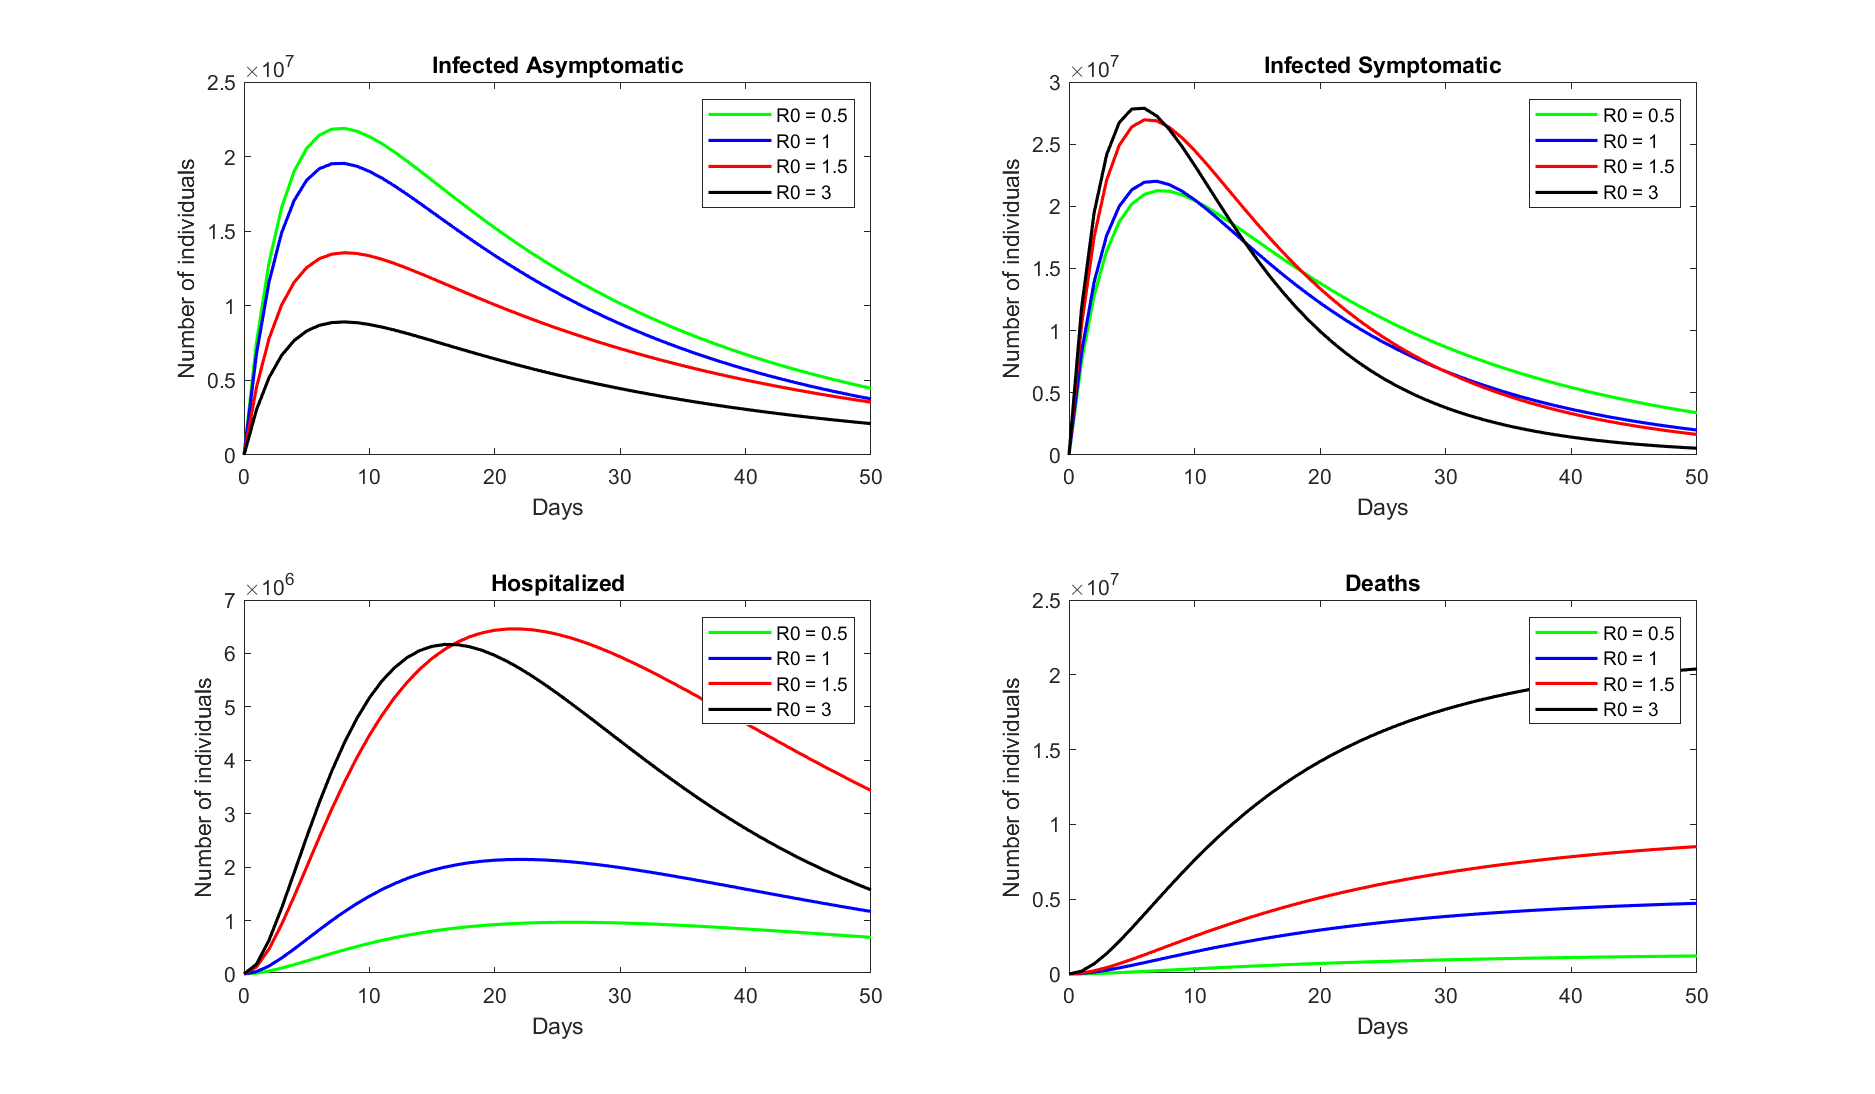
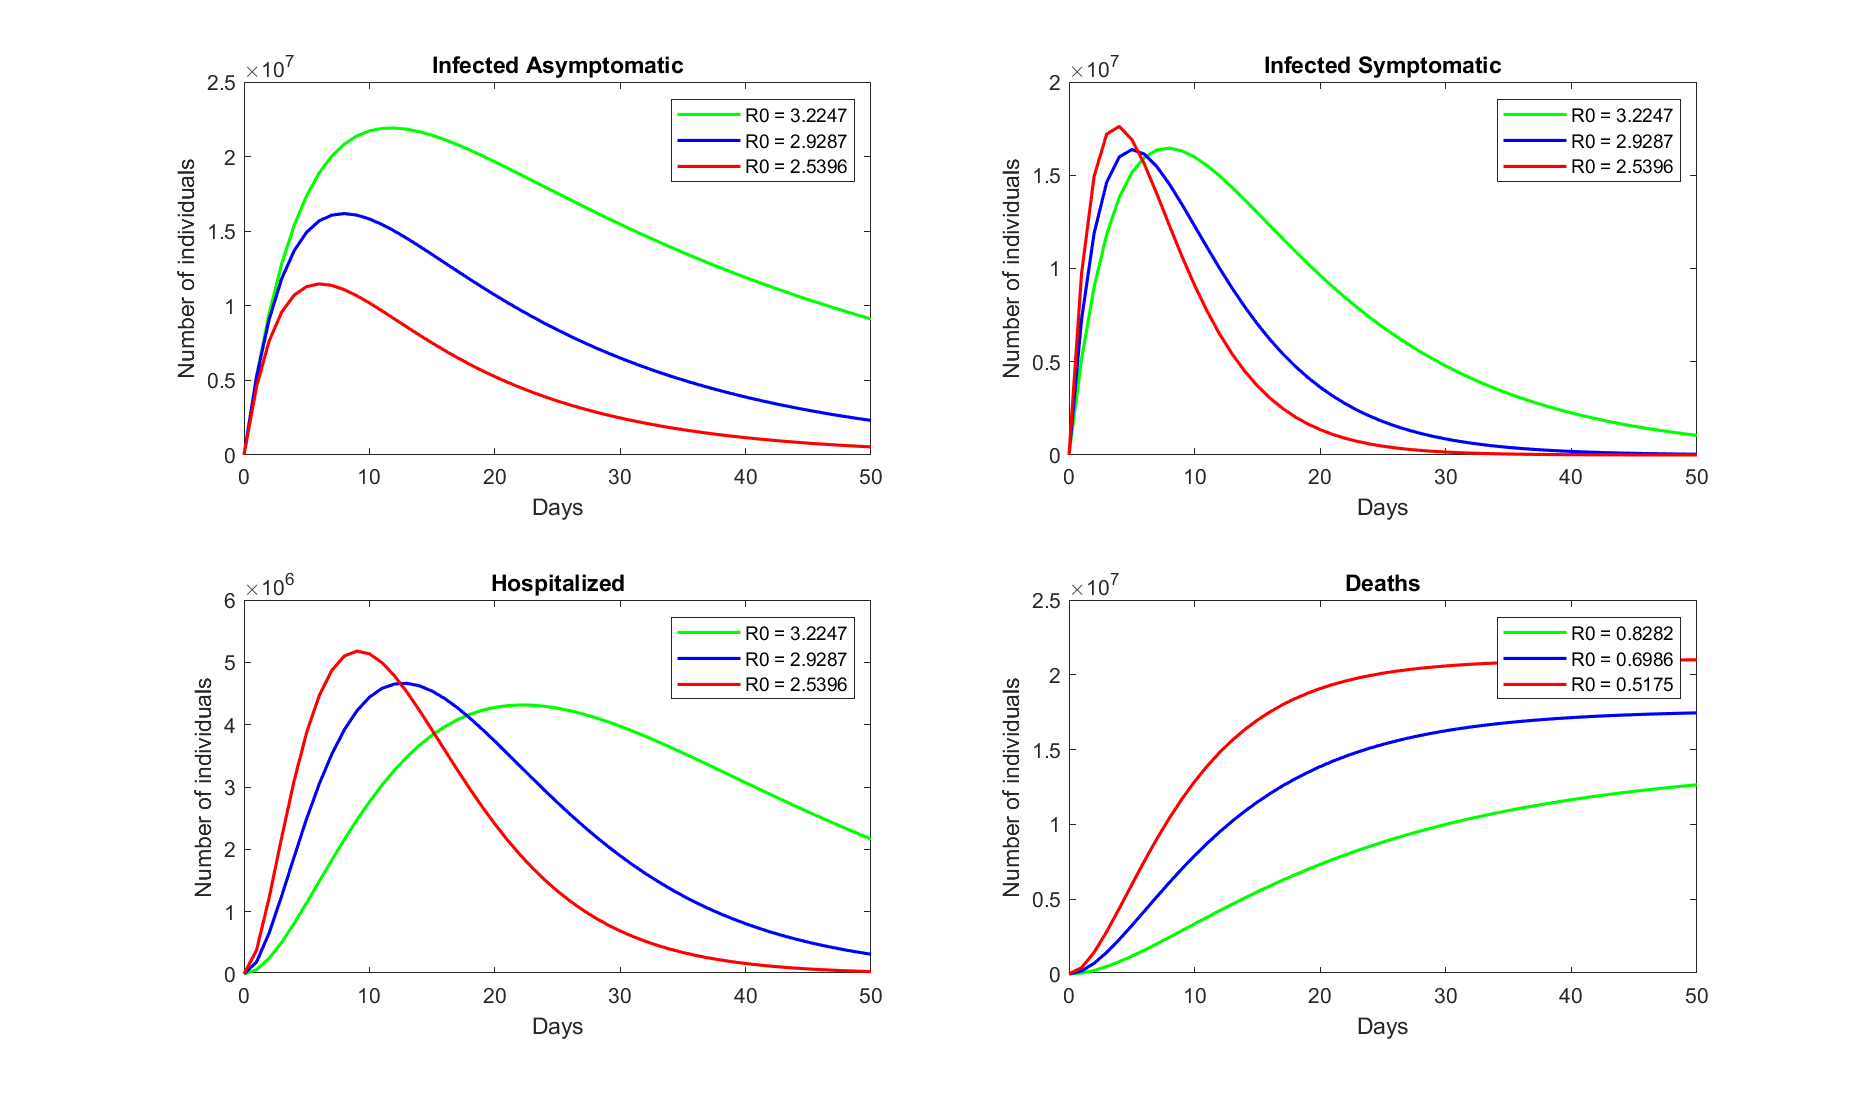
Update SEIIRHD simulation

diff --git a/experiments/simulations/ITA.m b/experiments/simulations/ITA.m
@@ -24,92 +24,113 @@ H = cast(data.totale_ospedalizzati, 'double');
 D = cast(data.deceduti, 'double');
 
 t0 = 1;
-E0 = E(t0);
-I0 = I(t0);
-H0 = H(t0);
-R0 = R(t0);
-D0 = D(t0);
+E0 = 0;
+I0 = 1;
+H0 = 0;
+R0 = 0;
+D0 = 0;
 S0 = N-E0-I0-R0;
 
 timeV = 0:1:50;
-%% R0 = 0.5
-f1 = 0.5;
+%%
+
+lb = [0.4, 0.15, 0, 0, 0, 0, 0];
+ub = [0.8, 0.35, 0.1, 0.5, 0.5, 0.1, 0.1];
+
+
+f = unifrnd(lb(1),ub(1),1,1000);
+alpha = unifrnd(lb(2),ub(2),1,1000);
+gamma = unifrnd(lb(3),ub(3),1,1000);
+beta_a = unifrnd(lb(4),ub(4),1,1000);
+beta_s = unifrnd(lb(5),ub(5),1,1000);
+nu_s = unifrnd(lb(6),ub(6),1,1000);
+mu = unifrnd(lb(7),ub(7),1,1000);
+
+% compute quartiles
+fq = quantile(f,[0.25, 0.5, 0.75]);
+alphaq = quantile(alpha,[0.25, 0.5, 0.75]);
+gammaq = quantile(gamma,[0.25, 0.5, 0.75]);
+beta_aq = quantile(beta_a,[0.25, 0.5, 0.75]);
+beta_sq = quantile(beta_s,[0.25, 0.5, 0.75]);
+nu_sq = quantile(nu_s,[0.25, 0.5, 0.75]);
+muq = quantile(mu,[0.25, 0.5, 0.75]);
+%% quartile 25%
+i = 1;
+
+f1=fq(i);
 I_a1 = (1-f1)*I;
 I_s1 = f1*I;
 I_a10 = I_a1(t0);
 I_s10 = I_s1(t0);
 X01= [S0 E0 I_a10 I_s10 H0 R0 D0];
 
-alpha1 = 0.3;
-gamma1 = 0.041;
-beta_a1 = 0.021;
-beta_s1 = 0.023;
-nu_s1 = 0.004;
-mu1 = 0.002;
+alpha1 = alphaq(i);
+gamma1 = gammaq(i);
+beta_a1 = beta_aq(i);
+beta_s1 = beta_sq(i);
+nu_s1 = nu_sq(i);
+mu1 = muq(i);
 
 
 R01 = (f1*beta_s1)/(gamma1+mu1+nu_s1) + (1-f1)*beta_a1/gamma1;
-fprintf("R0 first simulation: %f \n", R01); 
+fprintf("R0 quartile 0.25: %f \n", R01); 
 p1 = [f1, alpha1, gamma1, beta_a1, beta_s1, nu_s1, mu1];
 [t_res,x_res1] = ode23s(@(t,x) SEIIRHD(t,x, p1), timeV, X01);  
-%% R0 = 1
-f2 = 0.55;
+%% quartile 50%
+i = 2;
+
+f2=fq(i);
 I_a2 = (1-f2)*I;
 I_s2 = f2*I;
 I_a20 = I_a2(t0);
 I_s20 = I_s2(t0);
 X02= [S0 E0 I_a20 I_s20 H0 R0 D0];
 
-alpha2 = 0.3;
-gamma2 = 0.0425;
-beta_a2 = 0.05;
-beta_s2 = 0.052;
-nu_s2 = 0.01;
-mu2 = 0.008;
+alpha2 = alphaq(i);
+gamma2 = gammaq(i);
+beta_a2 = beta_aq(i);
+beta_s2 = beta_sq(i);
+nu_s2 = nu_sq(i);
+mu2 = muq(i);
 
 R02 = (f2*beta_s2)/(gamma2+mu2+nu_s2) + (1-f2)*beta_a2/gamma2;
-fprintf("R0 second simulation: %f \n", R02); 
+fprintf("R0 quartile 0.5: %f \n", R02); 
 p2 = [f2, alpha2, gamma2, beta_a2, beta_s2, nu_s2, mu2];
 [t_res,x_res2] = ode23s(@(t,x) SEIIRHD(t,x, p2), timeV, X02);  
-%% R0 = 1.5
-f3 = 0.7;
+%% quartile 75%
+i=3;
+
+f3=fq(i);
 I_a3 = (1-f3)*I;
 I_s3 = f3*I;
 I_a30 = I_a3(t0);
 I_s30 = I_s3(t0);
 X03 = [S0 E0 I_a30 I_s30 H0 R0 D0];
 
-alpha3 = 0.3;
-gamma3 = 0.035;
-beta_a3 = 0.081;
-beta_s3 = 0.081;
-nu_s3 = 0.0245;
-mu3 = 0.0105;
+alpha3 = alphaq(i);
+gamma3 = gammaq(i);
+beta_a3 = beta_aq(i);
+beta_s3 = beta_sq(i);
+nu_s3 = nu_sq(i);
+mu3 = muq(i);
+
 
 R03 = (f3*beta_s3)/(gamma3+mu3+nu_s3) + (1-f3)*beta_a3/gamma3;
-fprintf("R0 third simulation: %f \n", R03); 
+fprintf("R0 quartile 0.75: %f \n", R03); 
 p3 = [f3, alpha3, gamma3, beta_a3, beta_s3, nu_s3, mu3];
 [t_res,x_res3] = ode23s(@(t,x) SEIIRHD(t,x, p3), timeV, X03); 
 
-%% R0 = 3
-f4 = 0.8;
-I_a4 = (1-f4)*I;
-I_s4 = f4*I;
-I_a40 = I_a4(t0);
-I_s40 = I_s4(t0);
-X04 = [S0 E0 I_a40 I_s40 H0 R0 D0];
 
-alpha4 = 0.3;
-gamma4 = 0.0375;
-beta_a4 = 0.24;
-beta_s4 = 0.21;
-nu_s4 = 0.03;
-mu4 = 0.03;
-
-R04 = (f4*beta_s4)/(gamma4+mu4+nu_s4) + (1-f4)*beta_a4/gamma4;
-fprintf("R0 forth simulation: %f \n", R04); 
-p4 = [f4, alpha4, gamma4, beta_a4, beta_s4, nu_s4, mu4];
-[t_res,x_res4] = ode23s(@(t,x) SEIIRHD(t,x, p4), timeV, X04); 
-%%
-simulate_SEIIRHD(timeV, x_res1, x_res2, x_res3, x_res4,...
+%% plot
+simulate_SEIIRHD(timeV, x_res1, x_res2, x_res3,...
     "./results/simulations/ITA/SEIIRHD.png")
+
+%% sensitivity analysis
+den = gamma1 + mu1 + nu_s1;
+
+c_f = (beta_s1/den - beta_a1/gamma1)*(f1/R01);
+c_betaa = ((1-f1)/gamma1)*beta_a1/R01;
+c_betas = (f1/den)*beta_s1/R01;
+c_gamma = (-((f1*beta_s1)/den)^2-(((1-f1)*beta_a1)/gamma1)^2)*gamma1/R01;
+c_nus = (-((f1*beta_s1)/den)^2)*nu_s1/R01;
+c_mu = (-((f1*beta_s1)/den)^2)*mu1/R01;

diff --git a/models/SEIIRHD/simulate_SEIIRHD.m b/models/SEIIRHD/simulate_SEIIRHD.m
@@ -1,11 +1,10 @@
-function simulate_SEIIRHD(timeV, X1, X2, X3, X4, path)
+function simulate_SEIIRHD(timeV, X1, X2, X3, path)
 
 % Input 
 % timeV   time vector used as x-axis
-% X1      vector containg the ODE solution with R0 = 0.5
-% X2      vector containg the ODE solution with R0 = 1
-% X3      vector containg the ODE solution with R0 = 1.5
-% X4      vector containg the ODE solution with R0 = 3
+% X1      vector containg the ODE solution with 0.25 quartiles
+% X2      vector containg the ODE solution with 0.5 quartiles
+% X3      vector containg the ODE solution with 0.75 quartiles
 % path    path for saving the plot obtained
 
 % Output
@@ -26,31 +25,22 @@ I_s3 = X3(:, 4);
 H3 = X3(:, 5);
 D3 = X3(:, 7);
 
-I_a4 = X4(:, 3);
-I_s4 = X4(:, 4);
-H4 = X4(:, 5);
-D4 = X4(:, 7);
 
-fprintf("R0 = 0.5: "); 
+fprintf("0.25 Quartiles: "); 
 fprintf("Max I_a: %f, ", max(I_a1)); 
 fprintf("Max I_s: %f\n", max(I_s1)); 
 fprintf("Max H: %f, ", max(H1)); 
 fprintf("Max D: %f\n", max(D1)); 
-fprintf("R0 = 1: "); 
+fprintf("0.5 Quartiles: "); 
 fprintf("Max I_a: %f, ", max(I_a2)); 
 fprintf("Max I_s: %f\n", max(I_s2)); 
 fprintf("Max H: %f, ", max(H2)); 
 fprintf("Max D: %f\n", max(D2)); 
-fprintf("R0 = 1.5: "); 
+fprintf("0.75 Quartiles: "); 
 fprintf("Max I_a: %f, ", max(I_a3)); 
 fprintf("Max I_s: %f\n", max(I_s3)); 
 fprintf("Max H: %f, ", max(H3)); 
 fprintf("Max D: %f\n", max(D3)); 
-fprintf("R0 = 3"); 
-fprintf("Max I_a: %f, ", max(I_a4)); 
-fprintf("Max I_s: %f\n", max(I_s4)); 
-fprintf("Max H: %f, ", max(H4)); 
-fprintf("Max D: %f\n", max(D4)); 
 
 x0=100;
 y0=100;
@@ -63,10 +53,9 @@ subplot(2,2,1);
 plot(timeV,I_a1,'g-', 'Linewidth', 1.5);hold on
 plot(timeV,I_a2,'b-', 'Linewidth', 1.5);hold on
 plot(timeV,I_a3,'r-', 'Linewidth', 1.5);hold on
-plot(timeV,I_a4,'k-', 'Linewidth', 1.5);hold on
 xlabel('Days');ylabel('Number of individuals');
-legend('R0 = 0.5', 'R0 = 1' ,...
-    'R0 = 1.5', 'R0 = 3' ,...
+legend('R0 = 3.2247', 'R0 = 2.9287' ,...
+    'R0 = 2.5396', ...
     'Location', 'northeast');
 %set(gca,'XLim',[timeV(1), dates(tf+tp)]);
 title(sprintf('Infected Asymptomatic'));
@@ -76,10 +65,9 @@ subplot(2,2,2);
 plot(timeV,I_s1,'g-', 'Linewidth', 1.5);hold on
 plot(timeV,I_s2,'b-', 'Linewidth', 1.5);hold on
 plot(timeV,I_s3,'r-', 'Linewidth', 1.5);hold on
-plot(timeV,I_s4,'k-', 'Linewidth', 1.5);hold on
 xlabel('Days');ylabel('Number of individuals');
-legend('R0 = 0.5', 'R0 = 1' ,...
-    'R0 = 1.5', 'R0 = 3' ,...
+legend('R0 = 3.2247', 'R0 = 2.9287' ,...
+    'R0 = 2.5396', ...
     'Location', 'northeast');
 %set(gca,'XLim',[timeV(1), dates(tf+tp)]);
 title(sprintf('Infected Symptomatic'));
@@ -89,10 +77,9 @@ subplot(2,2,3);
 plot(timeV,H1,'g-', 'Linewidth', 1.5);hold on
 plot(timeV,H2,'b-', 'Linewidth', 1.5);hold on
 plot(timeV,H3,'r-', 'Linewidth', 1.5);hold on
-plot(timeV,H4,'k-', 'Linewidth', 1.5);hold on
 xlabel('Days');ylabel('Number of individuals');
-legend('R0 = 0.5', 'R0 = 1' ,...
-    'R0 = 1.5', 'R0 = 3' ,...
+legend('R0 = 3.2247', 'R0 = 2.9287' ,...
+    'R0 = 2.5396',...
     'Location', 'northeast');
 %set(gca,'XLim',[timeV(1), dates(tf+tp)]);
 title(sprintf('Hospitalized'));
@@ -102,14 +89,12 @@ subplot(2,2,4);
 plot(timeV,D1,'g-', 'Linewidth', 1.5);hold on
 plot(timeV,D2,'b-', 'Linewidth', 1.5);hold on
 plot(timeV,D3,'r-', 'Linewidth', 1.5);hold on
-plot(timeV,D4,'k-', 'Linewidth', 1.5);hold on
 xlabel('Days');ylabel('Number of individuals');
-legend('R0 = 0.5', 'R0 = 1' ,...
-    'R0 = 1.5', 'R0 = 3' ,...
+legend('R0 = 0.8282', 'R0 = 0.6986' ,...
+    'R0 = 0.5175',...
     'Location', 'northeast');
 %set(gca,'XLim',[timeV(1), dates(tf+tp)]);
 title(sprintf('Deaths'));
-
 saveas(gcf,path)
 
 
